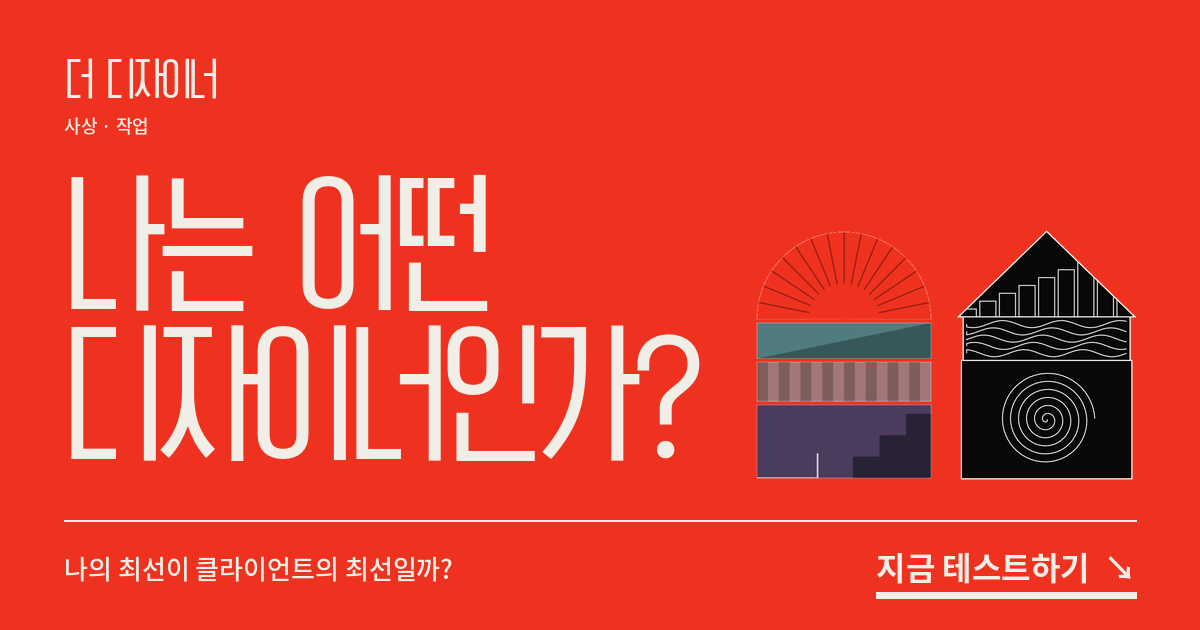
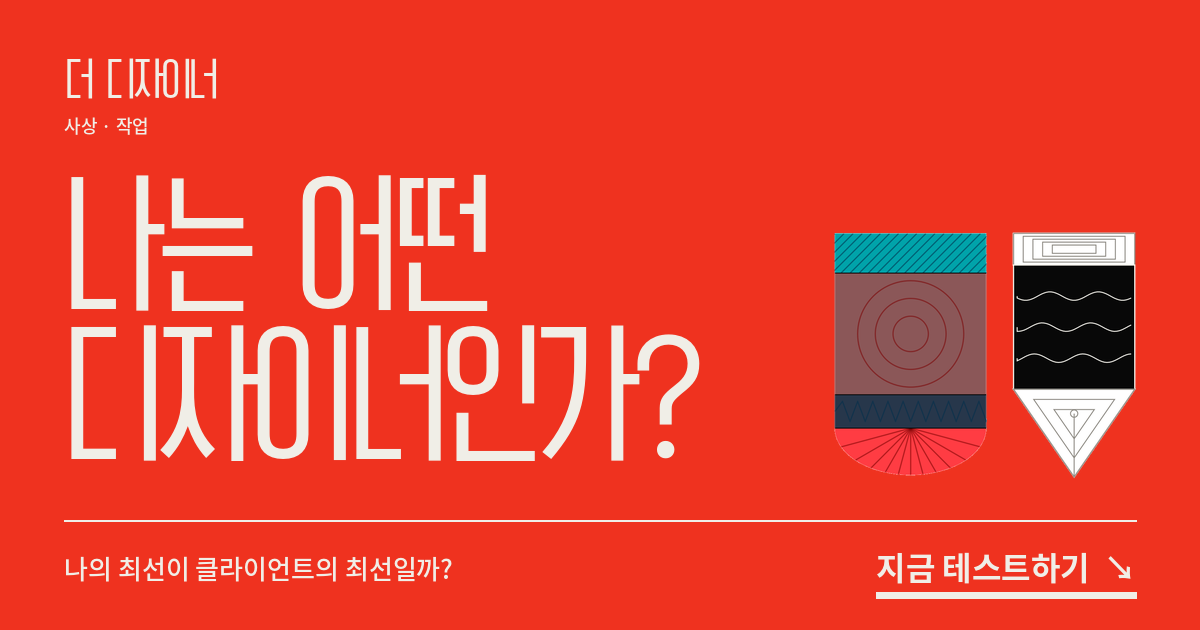
Add files via upload

Changed region(s): [[0.6167, 0.3619, 0.9558, 0.7841]]

diff --git a/index.html b/index.html
@@ -197,10 +197,10 @@ body.paper .question__ghost{-webkit-text-stroke-color:#cfccc4}
 /* 작업 결과 */
 .guide{list-style:none;margin:34px auto 0;padding:0 0 28px;max-width:470px;display:grid;grid-template-columns:repeat(4,1fr);gap:clamp(16px,6vw,60px);border-bottom:1px solid var(--rule)}
 .guide li{display:flex;justify-content:center}
-.guide svg{width:100%;max-width:62px;height:auto}
-.figure{max-width:470px;margin:42px auto 8px;display:grid;grid-template-columns:minmax(0,1.45fr) minmax(0,1fr);gap:clamp(16px,6vw,42px);align-items:stretch}
+.guide svg{width:100%;max-width:46px;height:auto}
+.figure{max-width:440px;margin:42px auto 8px;display:grid;grid-template-columns:minmax(0,1fr) minmax(0,1.15fr);gap:clamp(16px,6vw,42px);align-items:stretch}
 .figure svg{width:100%;height:auto;display:block}
-.dims{margin:0;padding:0;list-style:none;display:grid;grid-template-rows:145fr 74fr 201fr}
+.dims{margin:0;padding:0;list-style:none;display:grid;grid-template-rows:52fr 204fr 144fr}
 .dims li{min-width:0;display:grid;grid-template-columns:auto 1fr auto;align-items:center;gap:8px;border-bottom:1px solid var(--rule)}
 .dims li:last-child{border-bottom:0}
 .dims small{color:var(--dim);font:500 7px/1 var(--mono)}
@@ -447,6 +447,7 @@ body.paper footer{border-color:var(--rule)}
              방향 -1 = 동의할수록 오른쪽(right) 성향
    · 플레이어 code : 축 순서대로 글자를 이어 붙인 것 (예: 사상 "DWHP", 작업 "ASF")
              결과와 글자가 가장 많이 같은 플레이어가 매칭됩니다. 몇 명이든 OK.
+   · 사상 color : L2/L1 = 왼쪽 2점/1점 색, R1/R2 = 오른쪽 1점/2점 색 (지우개 심볼과 결과 막대에 사용)
    ===================================================================== */
 
 /* ---------- 시즌 1 · 사상 (4지선다, 4개 축) ---------- */
@@ -459,10 +460,10 @@ const THOUGHT = {
   ],
   scale: ["전혀 아니다","가끔 그렇다","종종 그렇다","항상 그렇다"],
   axes: [
-    { name:"권한", left:{code:"C",en:"CLIENT",ko:"클라이언트",desc:"돈을 내는 사람의 판단이 최종 결정이라고 본다."}, right:{code:"D",en:"DESIGNER",ko:"디자이너",desc:"디자인에 대한 결정권은 디자이너에게 있어야 한다고 본다."}, lead:"작업의 결정권이 누구에게 있다고 믿는지 측정합니다.", color:["#1646f5","#ef321f"] },
-    { name:"영향", left:{code:"W",en:"WORLD",ko:"세상",desc:"디자인과 예술이 사회를 바꿀 수 있고, 바꿔야 한다고 믿는다."}, right:{code:"B",en:"BUSINESS",ko:"비즈니스",desc:"디자인은 무엇보다 비즈니스 문제를 푸는 도구라고 본다."}, lead:"디자인이 세상에 미치는 역할을 어떻게 보는지 측정합니다.", color:["#507c7e","#98000c"] },
-    { name:"도구", left:{code:"T",en:"TECH",ko:"기술",desc:"AI와 새로운 툴을 적극적으로 받아들인다."}, right:{code:"H",en:"HAND",ko:"손",desc:"사람의 손과 판단이 디자인의 본질이라고 믿는다."}, lead:"AI와 새로운 기술에 대한 태도를 측정합니다.", color:["#2f6f4f","#a27777"] },
-    { name:"원본", left:{code:"O",en:"OPEN",ko:"공유",desc:"완전한 원작이란 존재할 수 없으며, 디자인과 레퍼런스가 자유롭게 공유되고 쓰여야만 발전이 있다고 본다."}, right:{code:"P",en:"PROPRIETARY",ko:"원본",desc:"원작자의 권리와 오리지널리티를 지키는 것이 디자인의 가치를 지킨다고 본다."}, lead:"원작과 레퍼런스, 오리지널리티를 어떻게 바라보는지 측정합니다.", color:["#c58b16","#4b3c5e"] }
+    { name:"권한", left:{code:"C",en:"CLIENT",ko:"클라이언트",desc:"돈을 내는 사람의 판단이 최종 결정이라고 본다."}, right:{code:"D",en:"DESIGNER",ko:"디자이너",desc:"디자인에 대한 결정권은 디자이너에게 있어야 한다고 본다."}, lead:"작업의 결정권이 누구에게 있다고 믿는지 측정합니다.", color:{L2:"#FF7719",L1:"#B69687",R1:"#507C7E",R2:"#00A3AA"} },
+    { name:"영향", left:{code:"W",en:"WORLD",ko:"세상",desc:"디자인과 예술이 사회를 바꿀 수 있고, 바꿔야 한다고 믿는다."}, right:{code:"B",en:"BUSINESS",ko:"비즈니스",desc:"디자인은 무엇보다 비즈니스 문제를 푸는 도구라고 본다."}, lead:"디자인이 세상에 미치는 역할을 어떻게 보는지 측정합니다.", color:{L2:"#FF000A",L1:"#8B5758",R1:"#426371",R2:"#007AC2"} },
+    { name:"도구", left:{code:"T",en:"TECH",ko:"기술",desc:"AI와 새로운 툴을 적극적으로 받아들인다."}, right:{code:"H",en:"HAND",ko:"손",desc:"사람의 손과 판단이 디자인의 본질이라고 믿는다."}, lead:"AI와 새로운 기술에 대한 태도를 측정합니다.", color:{L2:"#D30000",L1:"#5B2C2D",R1:"#27374B",R2:"#003D9F"} },
+    { name:"원본", left:{code:"O",en:"OPEN",ko:"공유",desc:"완전한 원작이란 존재할 수 없으며, 디자인과 레퍼런스가 자유롭게 공유되고 쓰여야만 발전이 있다고 본다."}, right:{code:"P",en:"PROPRIETARY",ko:"원본",desc:"원작자의 권리와 오리지널리티를 지키는 것이 디자인의 가치를 지킨다고 본다."}, lead:"원작과 레퍼런스, 오리지널리티를 어떻게 바라보는지 측정합니다.", color:{L2:"#FF3C43",L1:"#A27777",R1:"#8C9BA7",R2:"#52A5DF"} }
   ],
   questions: [
     [0, 1,"클라이언트의 말은 곧 법이다."],
@@ -610,47 +611,59 @@ const WORK = {
 /* =====================  ✏ 편집 영역 끝  ===================== */
 
 
-/* ---------- 시즌 2 심볼 (지붕=축0, 띠=축1, 바닥=축2 / 양수=왼쪽=흰색) ---------- */
+/* ---------- 시즌 2 심볼: 펜 (뚜껑=축0, 몸통=축1, 펜촉=축2 / 양수=왼쪽=흰색, 음수=오른쪽=검정 / 2점이면 선이 촘촘) ---------- */
 let figId=0;
 function workSymbol(lv){
-  const id="w"+(figId++), W=300, RH=145, BY=145, BH=74, CY=219, CH=201;
-  const ink=v=>v>0?{fill:"#fff",st:"#8f8c85"}:{fill:"#080808",st:"#f0eee7"};
-  let s=`<svg viewBox="-2 -2 304 424" xmlns="http://www.w3.org/2000/svg" aria-hidden="true">`;
-  const r=ink(lv[0]), tri=`150,0 0,${RH} ${W},${RH}`;
-  s+=`<defs><clipPath id="${id}r"><polygon points="${tri}"/></clipPath></defs><polygon points="${tri}" fill="${r.fill}" stroke="${r.st}" stroke-width="2"/><g clip-path="url(#${id}r)" fill="none" stroke="${r.st}" stroke-width="1.6">`;
-  if(lv[0]>0){const n=lv[0]===2?6:3;for(let k=1;k<=n;k++){const t=1-k/(n+1);s+=`<polygon points="${[[150,0],[0,RH],[W,RH]].map(([x,y])=>`${150+(x-150)*t},${96+(y-96)*t}`).join(" ")}"/>`;}}
-  else{const n=Math.abs(lv[0])===2?9:5,bw=W/n;for(let i=0;i<n;i++){const h=(i+1)/n*120;s+=`<rect x="${i*bw+3}" y="${RH-h}" width="${bw-6}" height="${h}"/>`;}}
+  const id="w"+(figId++), W=200, C=52, B=256, T=400;
+  const ink=v=>v>0?["#fff","#8f8c85"]:["#080808","#f0eee7"];
+  let s=`<svg viewBox="-2 -2 204 404" xmlns="http://www.w3.org/2000/svg" aria-hidden="true">`;
+  // 뚜껑
+  let [f,st]=ink(lv[0]); s+=`<rect x="0" y="0" width="${W}" height="${C}" fill="${f}" stroke="${st}" stroke-width="2"/>`;
+  if(lv[0]>0){const n=Math.abs(lv[0])===2?4:2;for(let k=1;k<=n;k++){const i=k*8;s+=`<rect x="${i*2}" y="${i*.6}" width="${W-i*4}" height="${C-i*1.2}" fill="none" stroke="${st}" stroke-width="1.6"/>`;}}
+  else{const n=Math.abs(lv[0])===2?18:8;for(let k=1;k<=n;k++){const x=W*k/(n+1);s+=`<line x1="${x}" y1="8" x2="${x}" y2="${C-8}" stroke="${st}" stroke-width="1.6"/>`;}}
+  // 몸통
+  [f,st]=ink(lv[1]); s+=`<rect x="0" y="${C}" width="${W}" height="${B-C}" fill="${f}" stroke="${st}" stroke-width="2"/><g fill="none" stroke="${st}" stroke-width="1.6">`;
+  if(lv[1]>0){const n=Math.abs(lv[1])===2?6:3,m=Math.abs(lv[1])===2?8:4;for(let k=1;k<n;k++){const x=W*k/n;s+=`<line x1="${x}" y1="${C}" x2="${x}" y2="${B}"/>`;}for(let k=1;k<m;k++){const y=C+(B-C)*k/m;s+=`<line x1="0" y1="${y}" x2="${W}" y2="${y}"/>`;}}
+  else{const n=Math.abs(lv[1])===2?7:3;for(let j=0;j<n;j++){const y=C+(B-C)*(j+1)/(n+1);let d=`M6 ${y}`;for(let x=6;x<W-5;x+=4)d+=` L${x} ${(y+Math.sin(x/W*Math.PI*5+j)*7).toFixed(1)}`;s+=`<path d="${d}"/>`;}}
   s+=`</g>`;
-  const b=ink(lv[1]);s+=`<rect x="8" y="${BY}" width="${W-16}" height="${BH}" fill="${b.fill}" stroke="${b.st}" stroke-width="2"/><g fill="none" stroke="${b.st}" stroke-width="1.6">`;
-  if(lv[1]>0){const n=lv[1]===2?8:4,cw=(W-16)/n;for(let i=1;i<n;i++)s+=`<line x1="${8+i*cw}" y1="${BY}" x2="${8+i*cw}" y2="${BY+BH}"/>`;}
-  else{const n=Math.abs(lv[1])===2?5:2;for(let j=0;j<n;j++){const y=BY+BH*(j+1)/(n+1);let d=`M14 ${y}`;for(let x=14;x<=W-14;x+=4)d+=` L${x} ${(y+Math.sin((x/W)*Math.PI*6+j)*6).toFixed(1)}`;s+=`<path d="${d}"/>`;}}
-  s+=`</g>`;
-  const c=ink(lv[2]);s+=`<rect x="5" y="${CY}" width="${W-10}" height="${CH}" fill="${c.fill}" stroke="${c.st}" stroke-width="2"/><g fill="none" stroke="${c.st}" stroke-width="1.6">`;
-  const mx=150,my=CY+CH/2;
-  if(lv[2]>0){const n=lv[2]===2?6:3,sz=150,x0=mx-sz/2,y0=my-sz/2;s+=`<rect x="${x0}" y="${y0}" width="${sz}" height="${sz}"/>`;for(let i=1;i<n;i++)s+=`<line x1="${x0+i*sz/n}" y1="${y0}" x2="${x0+i*sz/n}" y2="${y0+sz}"/><line x1="${x0}" y1="${y0+i*sz/n}" x2="${x0+sz}" y2="${y0+i*sz/n}"/>`;}
-  else{const turns=Math.abs(lv[2])===2?6:3,R=82;let d=`M${mx} ${my}`;for(let a=0;a<=turns*Math.PI*2;a+=.12){const rr=R*a/(turns*Math.PI*2);d+=` L${(mx+Math.cos(a)*rr).toFixed(1)} ${(my+Math.sin(a)*rr).toFixed(1)}`;}s+=`<path d="${d}"/>`;}
+  // 펜촉
+  [f,st]=ink(lv[2]); const tri=`0,${B} ${W},${B} ${W/2},${T}`;
+  s+=`<defs><clipPath id="${id}t"><polygon points="${tri}"/></clipPath></defs><polygon points="${tri}" fill="${f}" stroke="${st}" stroke-width="2"/><g clip-path="url(#${id}t)" fill="none" stroke="${st}" stroke-width="1.6">`;
+  if(lv[2]>0){const n=Math.abs(lv[2])===2?5:2,cx=W/2,cy=B+50;for(let k=1;k<=n;k++){const t=1-k/(n+1);s+=`<polygon points="${[[0,B],[W,B],[W/2,T]].map(([x,y])=>`${(cx+(x-cx)*t).toFixed(1)},${(cy+(y-cy)*t).toFixed(1)}`).join(" ")}"/>`;}s+=`<line x1="${W/2}" y1="${B+40}" x2="${W/2}" y2="${T}"/><circle cx="${W/2}" cy="${B+40}" r="6"/>`;}
+  else{const turns=Math.abs(lv[2])===2?6:3,cx=W/2,cy=B+52,R=52;let d=`M${cx} ${cy}`;for(let a=0;a<=turns*Math.PI*2;a+=.12){const r=R*a/(turns*Math.PI*2);d+=` L${(cx+Math.cos(a)*r).toFixed(1)} ${(cy+Math.sin(a)*r).toFixed(1)}`;}s+=`<path d="${d}"/>`;}
   return s+`</g></svg>`;
 }
 
-/* ---------- 시즌 1 심볼 (아치=축0, 띠=축1, 띠=축2, 바닥=축3 / 색은 축 설정의 color, 점수가 높을수록 진하게) ---------- */
+/* ---------- 시즌 1 심볼: 지우개 (윗띠=축0, 몸통=축1, 아랫띠=축2, 둥근 끝=축3 / 색은 축 설정의 color, 2점=쨍한 색·촘촘한 선) ---------- */
 function thoughtSymbol(lv){
-  const id="t"+(figId++), ax=THOUGHT.axes;
-  const col=i=>ax[i].color[lv[i]>0?0:1], op=i=>Math.abs(lv[i])===2?1:.55;
-  let s=`<svg viewBox="0 0 200 280" xmlns="http://www.w3.org/2000/svg" aria-hidden="true"><defs><clipPath id="${id}a"><path d="M2 100 A98 98 0 0 1 198 100 Z"/></clipPath></defs>`;
-  // arch
-  s+=`<path d="M2 100 A98 98 0 0 1 198 100 Z" fill="${col(0)}" fill-opacity="${op(0)}"/><g clip-path="url(#${id}a)" stroke="#000" stroke-opacity=".35" stroke-width="1.6">`;
-  const rays=Math.abs(lv[0])===2?17:9; for(let i=0;i<rays;i++){const a=Math.PI*(i/(rays-1));s+=`<line x1="100" y1="100" x2="${100-Math.cos(a)*110}" y2="${100-Math.sin(a)*110}"/>`;}
-  s+=`</g><path d="M60 100 A40 40 0 0 1 140 100 Z" fill="${col(0)}"/>`;
-  // band 1
-  s+=`<rect x="2" y="104" width="196" height="40" fill="${col(1)}" fill-opacity="${op(1)}"/>`;
-  s+=lv[1]>0?`<path d="M2 144 L198 104 L198 144 Z" fill="#000" fill-opacity=".3"/>`:`<path d="M2 104 L198 144 L2 144 Z" fill="#000" fill-opacity=".3"/>`;
-  // band 2
-  s+=`<rect x="2" y="148" width="196" height="44" fill="${col(2)}" fill-opacity="${op(2)}"/>`;
-  const st=Math.abs(lv[2])===2?8:4; for(let i=0;i<st;i++) s+=`<rect x="${2+i*196/st}" y="148" width="${196/st/2}" height="44" fill="#000" fill-opacity=".22"/>`;
-  // base
-  s+=`<rect x="2" y="196" width="196" height="82" fill="${col(3)}" fill-opacity="${op(3)}"/>`;
-  s+=lv[3]>0?`<circle cx="52" cy="237" r="28" fill="#000" fill-opacity=".45"/>`:`<path d="M198 278 H110 V254 H140 V230 H170 V206 H198 Z" fill="#000" fill-opacity=".45"/>`;
-  if(Math.abs(lv[3])===2) s+=lv[3]>0?`<circle cx="52" cy="237" r="14" fill="none" stroke="#fff" stroke-opacity=".7" stroke-width="2"/>`:`<path d="M2 278 H70 V250" fill="none" stroke="#fff" stroke-opacity=".7" stroke-width="2"/>`;
+  const id="t"+(figId++), ax=THOUGHT.axes, W=200, A=52, Bd=212, Cb=256, RY=62;
+  const col=i=>ax[i].color[(lv[i]>0?"L":"R")+Math.abs(lv[i])], hi=i=>Math.abs(lv[i])===2;
+  const ST=i=>`stroke="${lv[i]>0?"#790000":"#002E4B"}" stroke-opacity=".55" stroke-width="1.6" fill="none"`;
+  const end=`M0 ${Cb} A${W/2} ${RY} 0 0 0 ${W} ${Cb} Z`;
+  let s=`<svg viewBox="-2 -2 204 324" xmlns="http://www.w3.org/2000/svg" aria-hidden="true"><defs>
+    <clipPath id="${id}a"><rect x="0" y="0" width="${W}" height="${A}"/></clipPath><clipPath id="${id}b"><rect x="0" y="${A}" width="${W}" height="${Bd-A}"/></clipPath>
+    <clipPath id="${id}c"><rect x="0" y="${Bd}" width="${W}" height="${Cb-Bd}"/></clipPath><clipPath id="${id}d"><path d="${end}"/></clipPath></defs>`;
+  s+=`<rect x="0" y="0" width="${W}" height="${A}" fill="${col(0)}"/><rect x="0" y="${A}" width="${W}" height="${Bd-A}" fill="${col(1)}"/><rect x="0" y="${Bd}" width="${W}" height="${Cb-Bd}" fill="${col(2)}"/><path d="${end}" fill="${col(3)}"/>`;
+  // 윗띠: 세로줄 / 사선
+  s+=`<g clip-path="url(#${id}a)" ${ST(0)}>`;
+  if(lv[0]>0){const n=hi(0)?9:4;for(let k=1;k<=n;k++){const x=W*k/(n+1);s+=`<line x1="${x}" y1="0" x2="${x}" y2="${A}"/>`;}}
+  else{const step=hi(0)?12:26;for(let x=-A;x<W+A;x+=step)s+=`<line x1="${x}" y1="${A}" x2="${x+A}" y2="0"/>`;}
+  s+=`</g>`;
+  // 몸통: 동심원 / 겹마름모
+  const cx=W/2,cy=(A+Bd)/2,n1=hi(1)?6:3; s+=`<g clip-path="url(#${id}b)" ${ST(1)}>`;
+  for(let k=1;k<=n1;k++){const r=70*k/n1;s+=lv[1]>0?`<circle cx="${cx}" cy="${cy}" r="${r.toFixed(1)}"/>`:`<polygon points="${cx},${cy-r} ${cx+r},${cy} ${cx},${cy+r} ${cx-r},${cy}"/>`;}
+  s+=`</g>`;
+  // 아랫띠: 가로줄 / 지그재그
+  s+=`<g clip-path="url(#${id}c)" ${ST(2)}>`;
+  if(lv[2]>0){const n=hi(2)?4:1;for(let k=1;k<=n;k++){const y=Bd+(Cb-Bd)*k/(n+1);s+=`<line x1="0" y1="${y}" x2="${W}" y2="${y}"/>`;}}
+  else{const rows=hi(2)?2:1,per=hi(2)?10:20;for(let r=0;r<rows;r++){const y0=Bd+(Cb-Bd)*(r+.5)/rows,amp=(Cb-Bd)/rows*.3;let d=`M0 ${y0}`,x=0,up=true;while(x<=W){x+=per/2;d+=` L${x} ${(up?y0-amp:y0+amp).toFixed(1)}`;up=!up;}s+=`<path d="${d}"/>`;}}
+  s+=`</g>`;
+  // 둥근 끝: 방사선 / 겹호
+  s+=`<g clip-path="url(#${id}d)" ${ST(3)}>`;
+  if(lv[3]>0){const n=hi(3)?11:5;for(let k=0;k<n;k++){const a=Math.PI*(k+1)/(n+1);s+=`<line x1="${W/2}" y1="${Cb}" x2="${(W/2+Math.cos(a)*120).toFixed(1)}" y2="${(Cb+Math.sin(a)*120).toFixed(1)}"/>`;}}
+  else{const n=hi(3)?4:2;for(let k=1;k<=n;k++){const rx=W/2*k/(n+1)*1.6,ry=RY*k/(n+1)*1.6;s+=`<path d="M${(W/2-rx).toFixed(1)} ${Cb} A${rx.toFixed(1)} ${ry.toFixed(1)} 0 0 0 ${(W/2+rx).toFixed(1)} ${Cb}"/>`;}}
+  s+=`</g>`;
+  for(const y of [A,Bd,Cb]) s+=`<line x1="0" y1="${y}" x2="${W}" y2="${y}" stroke="#080808" stroke-width="1.2"/>`;
   return s+`</svg>`;
 }
 
@@ -755,7 +768,7 @@ function render(lv){
   } else {
     $("rBody").innerHTML=`<div class="s1-figure"><header class="s1-summary"><p>${userName?esc(userName)+"의":"당신의"} 디자인 사상</p><strong>${code}</strong></header>
       <div class="s1-symbol">${thoughtSymbol(lv)}</div>
-      <ol class="s1-dims">${cfg.axes.map((a,i)=>{const left=lv[i]>0,w=Math.abs(lv[i])/2*50,ac=a.color[left?0:1];
+      <ol class="s1-dims">${cfg.axes.map((a,i)=>{const left=lv[i]>0,w=Math.abs(lv[i])/2*50,ac=a.color[(left?"L":"R")+Math.abs(lv[i])];
         return `<li><div class="s1-axis__labels"><span class="${left?"on":""}"><small>${a.left.en}</small><b>${a.left.ko}</b></span><em>${a.name}</em><span class="${left?"":"on"}"><small>${a.right.en}</small><b>${a.right.ko}</b></span></div>
         <div class="s1-axis__track" style="--ac:${ac};--w:${w}%;--o:${left?"right":"left"};--m:${left?`max(29px,${50-w}%)`:`min(calc(100% - 29px),${50+w}%)`}"><i style="${left?"right":"left"}:50%"></i><strong>${Math.abs(lv[i])}</strong></div></li>`;}).join("")}</ol></div>`;
   }
